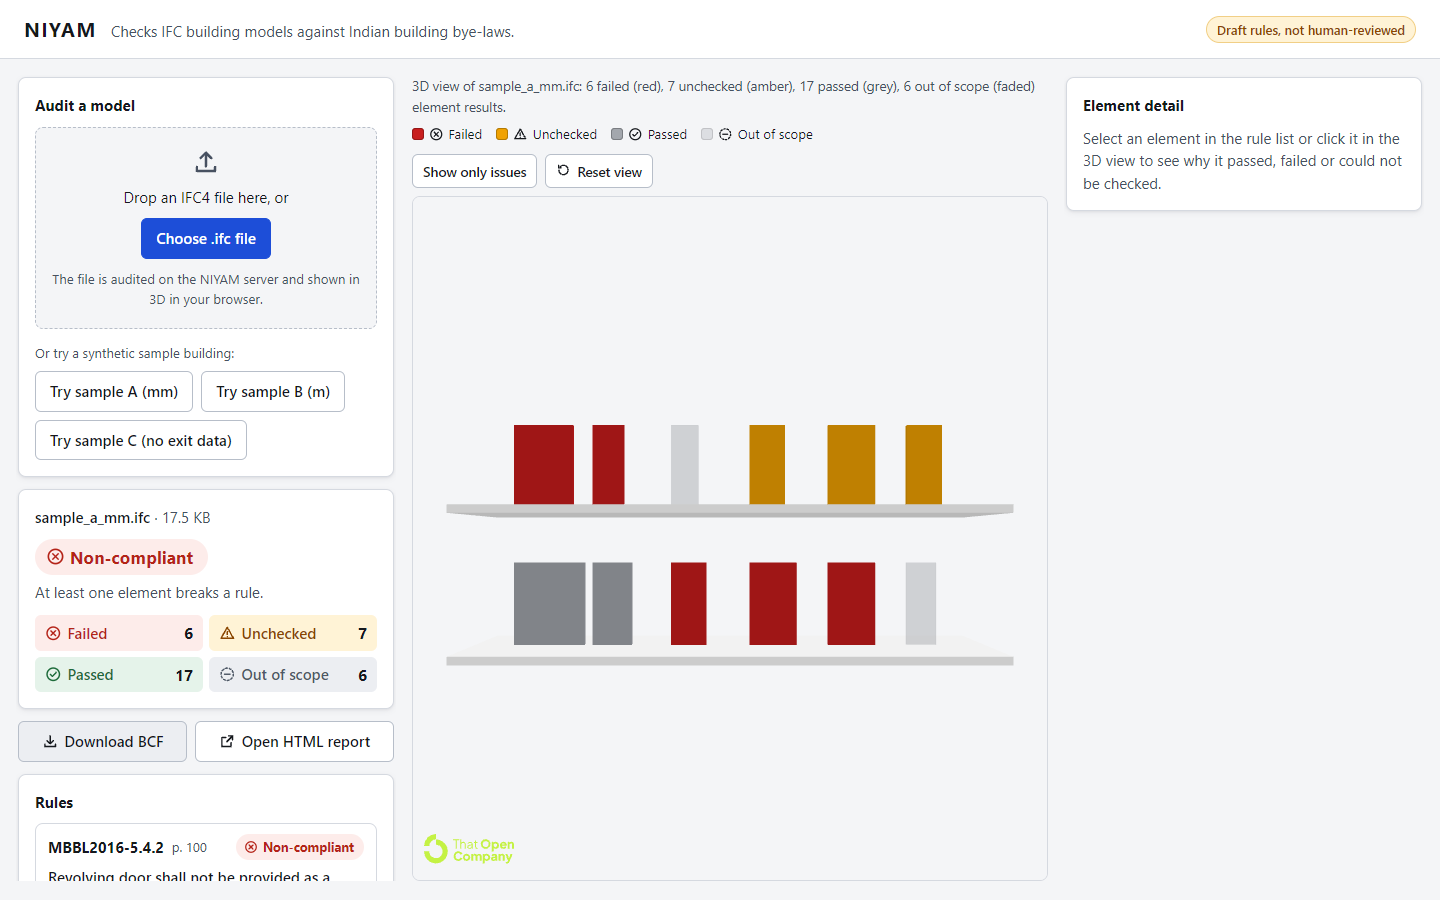
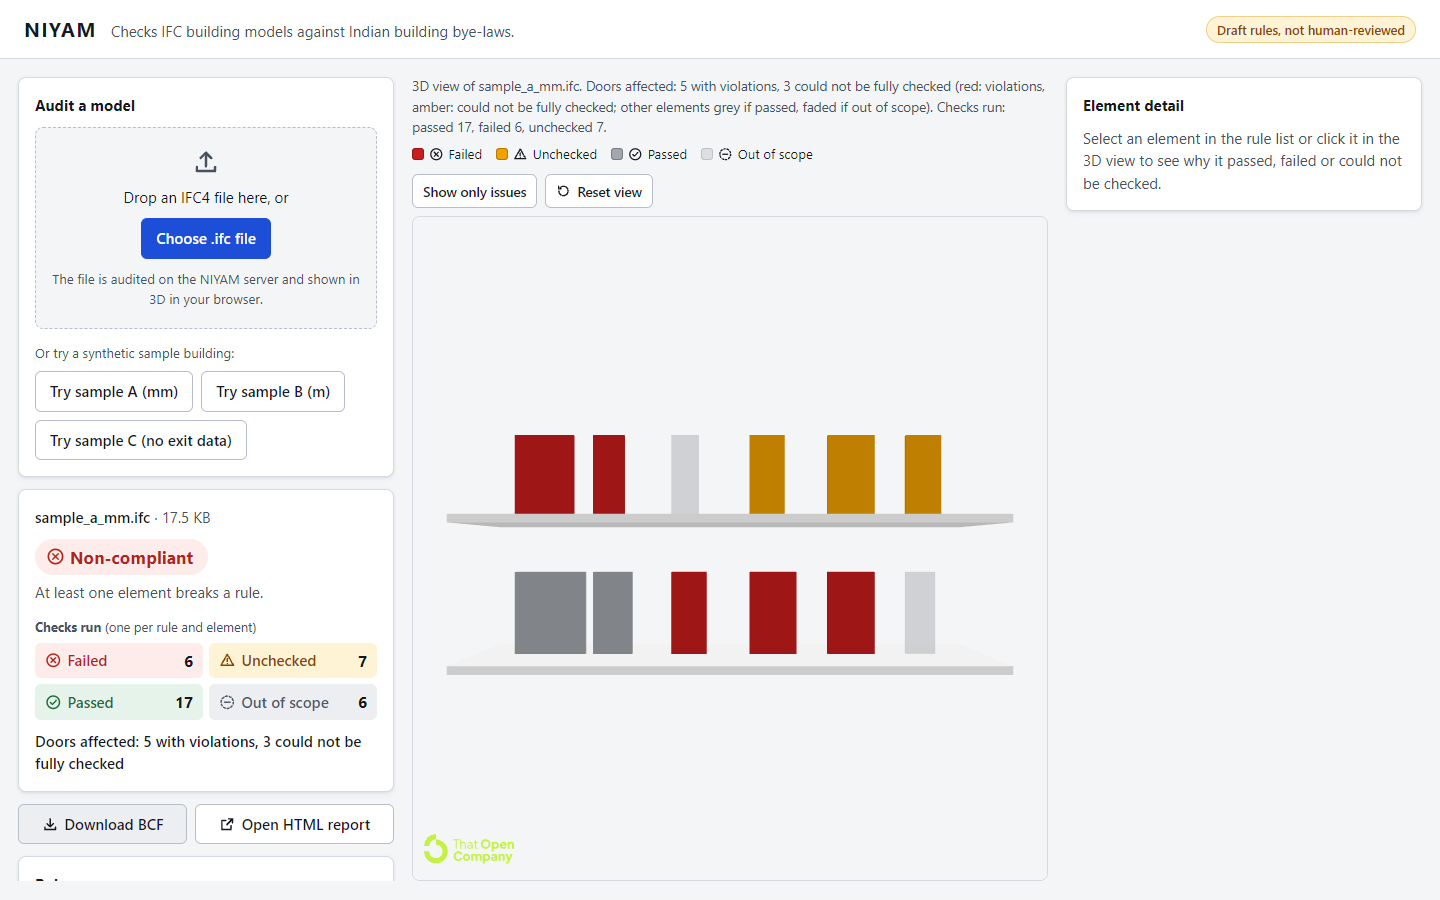
Summary: separate rule x element checks from distinct affected elements
The flat summary (17/6/7/6 for sample A) summed rule x element checks but
was shown like element counts. summary is now {checks, elements}; every
consumer (API, HTML, BCF, CLI, web app) is updated. Tests compute the
distinct-element counts from truth.json, not from the audit. Screenshots
regenerated by the e2e run with the new summary card.

diff --git a/frontend/e2e/audit.spec.ts b/frontend/e2e/audit.spec.ts
@@ -3,6 +3,34 @@ import { readFileSync } from "node:fs";
 import { colourStats } from "./pixels";
 
 const SHOTS = "../docs/screenshots";
+const SAMPLES = "../fixtures/samples";
+
+/** Records every request to a host other than the local app/API. Shared by the real check and its self-test. */
+function watchExternalRequests(page: Page): string[] {
+  const external: string[] = [];
+  page.context().on("request", (r) => {
+    const url = new URL(r.url());
+    if (!["localhost", "127.0.0.1"].includes(url.hostname) && !["data:", "blob:"].includes(url.protocol)) external.push(r.url());
+  });
+  return external;
+}
+
+type Truth = { doors: { expected: Record<string, string> }[] };
+
+/** Expected summary computed from the hand-written truth file, independently of the audit engine. */
+function expectedFromTruth(name: string) {
+  const truth = JSON.parse(readFileSync(`${SAMPLES}/${name}.truth.json`, "utf-8")) as Truth;
+  const checks: Record<string, number> = { passed: 0, failed: 0, unchecked: 0, out_of_scope: 0 };
+  let withFailed = 0;
+  let withUnchecked = 0;
+  for (const door of truth.doors) {
+    const verdicts = Object.values(door.expected);
+    for (const v of verdicts) checks[v] = (checks[v] ?? 0) + 1;
+    if (verdicts.includes("failed")) withFailed += 1;
+    else if (verdicts.includes("unchecked")) withUnchecked += 1;
+  }
+  return { checks, withFailed, withUnchecked, total: truth.doors.length };
+}
 const IFC2X3 = "../fixtures/invalid/ifc2x3_minimal.ifc";
 
 async function loadSample(page: Page, label: string, name: string) {
@@ -20,21 +48,26 @@ async function viewportShot(page: Page) {
 }
 
 test("sample A: status, counts, rules, downloads and 3D highlighting", async ({ page, request }) => {
-  const external: string[] = [];
-  page.context().on("request", (r) => {
-    const url = new URL(r.url());
-    if (!["localhost", "127.0.0.1"].includes(url.hostname) && !["data:", "blob:"].includes(url.protocol)) external.push(r.url());
-  });
+  const external = watchExternalRequests(page);
   const audit = await loadSample(page, "Try sample A (mm)", "sample_a_mm");
+  const truth = expectedFromTruth("sample_a_mm");
 
   await expect(page.getByTestId("overall-status")).toHaveText("Non-compliant");
   const summary = page.locator(".summary");
-  for (const [key, value] of Object.entries({ passed: 17, failed: 6, unchecked: 7, out_of_scope: 6 })) {
-    expect(audit.summary[key]).toBe(value);
+  for (const [key, value] of Object.entries(truth.checks)) {
+    expect(audit.summary.checks[key]).toBe(value);
     await expect(summary.getByTestId(`count-${key}`).locator("dd")).toHaveText(String(value));
   }
+  expect(audit.summary.elements).toEqual({
+    total_in_model_of_scoped_classes: truth.total, with_failed: truth.withFailed, with_unchecked: truth.withUnchecked,
+    clean: truth.total - truth.withFailed - truth.withUnchecked,
+  });
+  await expect(summary.locator(".counts-heading")).toContainText("Checks run");
+  await expect(page.getByTestId("elements-affected")).toHaveText(
+    `Doors affected: ${truth.withFailed} with violations, ${truth.withUnchecked} could not be fully checked`);
   await expect(page.locator("li.rule .rule-id")).toHaveText(["MBBL2016-5.4.2", "MBBL2016-5.4.1", "MBBL2016-5.4.1"]);
-  await expect(page.getByTestId("viewport-summary")).toContainText("6 failed (red), 7 unchecked (amber)");
+  await expect(page.getByTestId("viewport-summary")).toContainText(
+    `Doors affected: ${truth.withFailed} with violations, ${truth.withUnchecked} could not be fully checked`);
   await expect(page.locator(".viewport")).toHaveAttribute("data-id-mapping", "express_id");
 
   const downloadPromise = page.waitForEvent("download");

diff --git a/frontend/src/results.test.ts b/frontend/src/results.test.ts
@@ -1,6 +1,6 @@
 import { describe, expect, it } from "vitest";
 import type { AuditResult, ElementResult, RuleResult, Verdict } from "./api";
-import { STATUS_LABEL, elementsByExpressId, issuesOf, paintByLocalId, worstVerdict } from "./results";
+import { STATUS_LABEL, affectedLine, checksLine, elementsByExpressId, issuesOf, paintByLocalId, worstVerdict } from "./results";
 
 const el = (express_id: number, verdict: Verdict, name = `d${express_id}`): ElementResult => ({
   global_id: `G${express_id}`, express_id, name, ifc_class: "IfcDoor", verdict,
@@ -15,7 +15,11 @@ const rule = (unit_id: string, elements: ElementResult[]): RuleResult => ({
 });
 
 const audit = (rules: RuleResult[]): AuditResult => ({
-  audit_id: "a", status: "noncompliant", summary: { passed: 0, failed: 0, unchecked: 0, out_of_scope: 0 }, rules,
+  audit_id: "a", status: "noncompliant", rules,
+  summary: {
+    checks: { passed: 0, failed: 0, unchecked: 0, out_of_scope: 0 },
+    elements: { total_in_model_of_scoped_classes: 0, with_failed: 0, with_unchecked: 0, clean: 0 },
+  },
 });
 
 describe("status labels", () => {
@@ -69,5 +73,19 @@ describe("express id mapping", () => {
     expect(shifted.localByExpress.get(10)).toBe(110);
     expect(shifted.paints.get(112)).toBe("unchecked");
     expect(shifted.paints.has(11)).toBe(false);
+  });
+});
+
+describe("summary card wording", () => {
+  it("labels rule x element checks as checks, and distinct elements by their class", () => {
+    const a = audit([rule("A#1", [el(1, "failed"), el(2, "unchecked")])]);
+    a.summary = {
+      checks: { passed: 17, failed: 6, unchecked: 7, out_of_scope: 6 },
+      elements: { total_in_model_of_scoped_classes: 12, with_failed: 5, with_unchecked: 3, clean: 4 },
+    };
+    expect(checksLine(a)).toBe("Checks run: passed 17, failed 6, unchecked 7");
+    expect(affectedLine(a)).toBe("Doors affected: 5 with violations, 3 could not be fully checked");
+    a.rules[0]!.elements.push({ ...el(3, "passed"), ifc_class: "IfcSpace" });
+    expect(affectedLine(a)).toBe("Elements affected: 5 with violations, 3 could not be fully checked");
   });
 });

diff --git a/frontend/src/App.tsx b/frontend/src/App.tsx
@@ -13,7 +13,7 @@ import {
 } from "./api";
 import { DetailPanel, Legend, RuleList, StartPanel, SummaryCard } from "./components";
 import { IconDownload, IconExternal, IconReset } from "./icons";
-import { LARGE_MODEL_BYTES, elementsByExpressId, formatBytes, paintByLocalId } from "./results";
+import { LARGE_MODEL_BYTES, affectedLine, checksLine, elementsByExpressId, formatBytes, paintByLocalId } from "./results";
 import { Viewer } from "./viewer";
 
 type Phase = "idle" | "working" | "done";
@@ -146,11 +146,10 @@ export default function App() {
     await viewerRef.current?.frame();
   };
 
-  const issueCount = audit ? audit.summary.failed + audit.summary.unchecked : 0;
-  const counts = audit?.summary;
-  const textAlternative = counts
-    ? `3D view of ${file?.name}: ${counts.failed} failed (red), ${counts.unchecked} unchecked (amber), ` +
-      `${counts.passed} passed (grey), ${counts.out_of_scope} out of scope (faded) element results.`
+  const issueCount = audit ? audit.summary.elements.with_failed + audit.summary.elements.with_unchecked : 0;
+  const textAlternative = audit
+    ? `3D view of ${file?.name}. ${affectedLine(audit)} (red: violations, amber: could not be fully checked; ` +
+      `other elements grey if passed, faded if out of scope). ${checksLine(audit)}.`
     : "3D view: no model loaded.";
 
   return (

diff --git a/frontend/src/results.ts b/frontend/src/results.ts
@@ -100,6 +100,18 @@ export function paintByLocalId(
   return { paints, localByExpress, idsMatch, missing };
 }
 
+export function checksLine(audit: AuditResult): string {
+  const c = audit.summary.checks;
+  return `Checks run: passed ${c.passed}, failed ${c.failed}, unchecked ${c.unchecked}`;
+}
+
+export function affectedLine(audit: AuditResult): string {
+  const classes = new Set(audit.rules.flatMap((r) => r.elements.map((e) => e.ifc_class)));
+  const noun = classes.size === 1 && classes.has("IfcDoor") ? "Doors" : "Elements";
+  const e = audit.summary.elements;
+  return `${noun} affected: ${e.with_failed} with violations, ${e.with_unchecked} could not be fully checked`;
+}
+
 export function formatBytes(bytes: number): string {
   if (bytes < 1024) return `${bytes} B`;
   if (bytes < 1024 * 1024) return `${(bytes / 1024).toFixed(1)} KB`;

diff --git a/frontend/src/components.tsx b/frontend/src/components.tsx
@@ -6,6 +6,7 @@ import {
   STATUS_EXPLANATION,
   STATUS_LABEL,
   VERDICT_LABEL,
+  affectedLine,
   formatBytes,
   issuesOf,
   type ElementSummary,
@@ -126,7 +127,9 @@ export function SummaryCard({ audit, fileName, fileSize }: { audit: AuditResult;
         <StatusBadge status={audit.status} />
       </div>
       <p className="explanation">{STATUS_EXPLANATION[audit.status]}</p>
-      <CountList counts={audit.summary} />
+      <h3 className="counts-heading">Checks run <span>(one per rule and element)</span></h3>
+      <CountList counts={audit.summary.checks} />
+      <p className="affected" data-testid="elements-affected">{affectedLine(audit)}</p>
     </section>
   );
 }

diff --git a/frontend/src/styles.css b/frontend/src/styles.css
@@ -148,6 +148,9 @@ code { font: 0.86em/1.4 ui-monospace, "Cascadia Mono", Consolas, monospace; over
 .overall .badge { font-size: 1.15rem; padding: 4px 14px 4px 10px; }
 .explanation { color: var(--text-2); margin-bottom: 12px; }
 
+.counts-heading { margin: 4px 0 6px; font-size: 0.9rem; }
+.counts-heading span { color: var(--text-2); font-weight: 400; }
+.summary .affected { margin: 10px 0 0; font-weight: 600; }
 .counts { display: grid; grid-template-columns: repeat(2, minmax(0, 1fr)); gap: 6px; margin: 0; }
 .count { display: flex; justify-content: space-between; align-items: center; gap: 8px; padding: 6px 10px;
   border-radius: var(--radius-sm); }

diff --git a/frontend/src/api.ts b/frontend/src/api.ts
@@ -34,10 +34,18 @@ export interface RuleResult {
   elements: ElementResult[];
 }
 
+export interface ElementCounts {
+  total_in_model_of_scoped_classes: number;
+  with_failed: number;
+  with_unchecked: number;
+  clean: number;
+}
+
 export interface AuditResult {
   audit_id: string;
   status: Status;
-  summary: Counts;
+  /** checks: one per rule x element; elements: distinct elements, failed outranks unchecked */
+  summary: { checks: Counts; elements: ElementCounts };
   rules: RuleResult[];
 }
 

diff --git a/backend/tests/test_exports.py b/backend/tests/test_exports.py
@@ -6,7 +6,7 @@ from bcf.v2.bcfxml import BcfXml
 
 from app.audit.bcf_export import export_bcf
 from app.audit.engine import audit
-from app.audit.models import AuditReport, Counts, ElementResult, RuleResult
+from app.audit.models import AuditReport, Counts, ElementCounts, ElementResult, RuleResult, Summary
 from app.audit.report_html import render_html
 from app.fixtures.samples import SAMPLES_DIR
 from app.rulepack.loader import load_rulepack
@@ -44,6 +44,9 @@ def test_html_shows_summary_clauses_and_issue_tables(report):
     assert "missing required data: Qto_DoorBaseQuantities.Width" in html  # raw reason
     assert "Declared width is 0.9 m; this rule requires at least 1 m." in html  # plain reason
     assert "not human-reviewed" in html
+    # rule x element checks and distinct elements are labelled apart (sample A: 12 doors, 5 + 3 affected)
+    assert "Checks run: passed 17, failed 6, unchecked 7, out of scope 6" in html
+    assert "Doors affected: 5 with violations, 3 could not be fully checked (of 12 in scope classes)" in html
 
 
 def test_html_escapes_all_dynamic_text():
@@ -53,7 +56,8 @@ def test_html_escapes_all_dynamic_text():
         page=1, severity="error", human_reviewed=True, status="noncompliant", counts=Counts(failed=1),
         elements=[ElementResult(global_id="g'\"&", express_id=1, name=evil, ifc_class="IfcDoor", verdict="failed", reason_plain=evil, reason_raw=evil)])
     report = AuditReport(ifc_file=f"{evil}.ifc", ifc_schema="IFC4", rulepack_version="v0", status="noncompliant",
-                         summary=Counts(failed=1), rules=[rule])
+                         summary=Summary(checks=Counts(failed=1), elements=ElementCounts(
+                             total_in_model_of_scoped_classes=1, with_failed=1)), rules=[rule])
     html = render_html(report)
     assert "<script" not in html.lower()
     assert "&lt;script&gt;alert(1)&lt;/script&gt;" in html
@@ -83,7 +87,7 @@ def test_bcf_zip_structure(report, bcf_path):
 def test_bcf_topics_read_back(report, bcf_path):
     bcf = BcfXml.load(bcf_path)
     topics = list(bcf.topics.values())
-    assert len(topics) == len(issues(report)) == report.summary.failed + report.summary.unchecked
+    assert len(topics) == len(issues(report)) == report.summary.checks.failed + report.summary.checks.unchecked
 
     by_guid = {}
     for t in topics:
@@ -98,6 +102,7 @@ def test_bcf_topics_read_back(report, bcf_path):
         expected_label = "violation" if element.verdict == "failed" else "unchecked"
         assert topic.topic.labels == [expected_label]
         assert topic.topic.priority == "High"
+        assert "Audit summary: 6 failed checks on 5 distinct doors; 3 more doors could not be fully checked."             in topic.topic.description
         assert rule.clause_text in topic.topic.description
         assert element.reason_plain in topic.topic.description and element.reason_raw in topic.topic.description
         assert element.global_id in topic.topic.description

diff --git a/backend/app/audit/engine.py b/backend/app/audit/engine.py
@@ -16,7 +16,7 @@ import ifcopenshell.util.element
 import ifcopenshell.util.unit
 from ifctester import ids
 
-from app.audit.models import AuditReport, Counts, ElementResult, RuleResult, Status
+from app.audit.models import AuditReport, Counts, ElementCounts, ElementResult, RuleResult, Status, Summary
 from app.rulepack.loader import Rulepack
 from app.rulepack.models import RequiredData, Rule
 
@@ -186,7 +186,19 @@ def audit(ifc_path: Path, rulepack: Rulepack) -> AuditReport:
     if model.schema != "IFC4":
         raise UnsupportedSchemaError(f"unsupported IFC schema {model.schema_identifier}: NIYAM v0.1 audits IFC4 models")
     rules = [_audit_rule(model, rule, rulepack.ids_xml(rule)) for rule in rulepack.manifest.rules]
-    summary = sum((r.counts for r in rules), Counts())
+    checks = sum((r.counts for r in rules), Counts())
     return AuditReport(ifc_file=Path(ifc_path).name, ifc_schema=model.schema_identifier,
-                       rulepack_version=rulepack.manifest.version, status=overall_status(summary),
-                       summary=summary, rules=rules)
+                       rulepack_version=rulepack.manifest.version, status=overall_status(checks),
+                       summary=Summary(checks=checks, elements=_element_counts(model, rulepack, rules)), rules=rules)
+
+
+def _element_counts(model, rulepack: Rulepack, rules: list[RuleResult]) -> ElementCounts:
+    scoped = {e.id() for c in {r.scope.ifc_class for r in rulepack.manifest.rules} for e in model.by_type(c)}
+    verdicts: dict[int, set[str]] = {}
+    for r in rules:
+        for e in r.elements:
+            verdicts.setdefault(e.express_id, set()).add(e.verdict)
+    with_failed = sum("failed" in v for v in verdicts.values())
+    with_unchecked = sum("failed" not in v and "unchecked" in v for v in verdicts.values())
+    return ElementCounts(total_in_model_of_scoped_classes=len(scoped), with_failed=with_failed,
+                         with_unchecked=with_unchecked, clean=len(scoped) - with_failed - with_unchecked)

diff --git a/backend/tests/test_samples.py b/backend/tests/test_samples.py
@@ -29,10 +29,41 @@ def test_audit_matches_truth_element_by_element(name):
     assert report.status == truth["expected_status"]
 
 
+def _distinct_from_truth(truth: dict) -> dict:
+    """Distinct-element counts straight from the hand-written truth file: failed outranks unchecked."""
+    with_failed = with_unchecked = 0
+    for d in truth["doors"]:
+        verdicts = set(d["expected"].values())
+        if "failed" in verdicts:
+            with_failed += 1
+        elif "unchecked" in verdicts:
+            with_unchecked += 1
+    total = len(truth["doors"])
+    return {"total_in_model_of_scoped_classes": total, "with_failed": with_failed,
+            "with_unchecked": with_unchecked, "clean": total - with_failed - with_unchecked}
+
+
+def _checks_from_truth(truth: dict) -> dict:
+    checks = {"passed": 0, "failed": 0, "unchecked": 0, "out_of_scope": 0}
+    for d in truth["doors"]:
+        for v in d["expected"].values():
+            checks[v] += 1
+    return checks
+
+
+@pytest.mark.parametrize("name", SAMPLES)
+def test_summary_separates_checks_from_distinct_elements(name):
+    truth = json.loads((SAMPLES_DIR / f"{name}.truth.json").read_text(encoding="utf-8"))
+    summary = audit(SAMPLES_DIR / f"{name}.ifc", load_rulepack()).summary
+    assert summary.checks.model_dump() == _checks_from_truth(truth)
+    assert summary.elements.model_dump() == _distinct_from_truth(truth)
+
+
 def test_sample_without_fire_exit_data_is_incomplete_never_compliant():
     report = audit(SAMPLES_DIR / "sample_c_no_fireexit_mm.ifc", load_rulepack())
     assert report.status == "incomplete"
-    assert report.summary.passed == report.summary.failed == 0 and report.summary.unchecked > 0
+    checks = report.summary.checks
+    assert checks.passed == checks.failed == 0 and checks.unchecked > 0
 
 
 def test_every_failed_or_unchecked_record_has_a_plain_reason():

diff --git a/backend/app/audit/models.py b/backend/app/audit/models.py
@@ -16,6 +16,20 @@ class Counts(BaseModel):
         return Counts(**{k: getattr(self, k) + getattr(other, k) for k in Counts.model_fields})
 
 
+class ElementCounts(BaseModel):
+    """Distinct elements, each counted once: any failed rule -> with_failed, else any unchecked -> with_unchecked."""
+
+    total_in_model_of_scoped_classes: int = 0
+    with_failed: int = 0
+    with_unchecked: int = 0
+    clean: int = 0
+
+
+class Summary(BaseModel):
+    checks: Counts  # rule x element checks: one element is counted once per rule
+    elements: ElementCounts
+
+
 class ElementResult(BaseModel):
     global_id: str
     express_id: int  # STEP id in the audited file; lets a viewer map results to geometry
@@ -45,5 +59,19 @@ class AuditReport(BaseModel):
     ifc_schema: str
     rulepack_version: str
     status: Status
-    summary: Counts
+    summary: Summary
     rules: list[RuleResult]
+
+    def element_noun(self) -> str:
+        classes = {e.ifc_class for r in self.rules for e in r.elements}
+        return "doors" if classes == {"IfcDoor"} else "elements"
+
+    def checks_line(self) -> str:
+        c = self.summary.checks
+        return (f"Checks run: passed {c.passed}, failed {c.failed}, unchecked {c.unchecked}, "
+                f"out of scope {c.out_of_scope}")
+
+    def elements_line(self) -> str:
+        e = self.summary.elements
+        return (f"{self.element_noun().capitalize()} affected: {e.with_failed} with violations, "
+                f"{e.with_unchecked} could not be fully checked (of {e.total_in_model_of_scoped_classes} in scope classes)")

diff --git a/backend/app/audit/report_html.py b/backend/app/audit/report_html.py
@@ -61,7 +61,7 @@ def render_html(report: AuditReport) -> str:
     note = (f'<p class="note">Rules {_e(", ".join(drafts))} are draft encodings and not human-reviewed. '
             "Unchecked elements lack the data a rule needs; they are not passes.</p>") if drafts else ""
     rows = "".join(_counts_row(_e(r.unit_id), r.counts, r.status) for r in report.rules)
-    rows += _counts_row("<strong>overall</strong>", report.summary, report.status)
+    rows += _counts_row("<strong>all checks</strong>", report.summary.checks, report.status)
     body = "\n".join(_rule_section(r) for r in report.rules)
     return f"""<!doctype html>
 <html lang="en"><head><meta charset="utf-8"><meta name="viewport" content="width=device-width,initial-scale=1">
@@ -69,6 +69,8 @@ def render_html(report: AuditReport) -> str:
 <h1>NIYAM audit report {_badge(report.status)}</h1>
 <p class="meta">Model <code>{_e(report.ifc_file)}</code> ({_e(report.ifc_schema)}) &middot; rulepack {_e(report.rulepack_version)}</p>
 {note}
+<p><strong>{_e(report.checks_line())}</strong> (one check per rule and element).<br>
+<strong>{_e(report.elements_line())}</strong>, each counted once.</p>
 <table><tr><th>Rule</th><th>Status</th><th>Passed</th><th>Failed</th><th>Unchecked</th><th>Out of scope</th></tr>{rows}</table>
 {body}
 </body></html>
